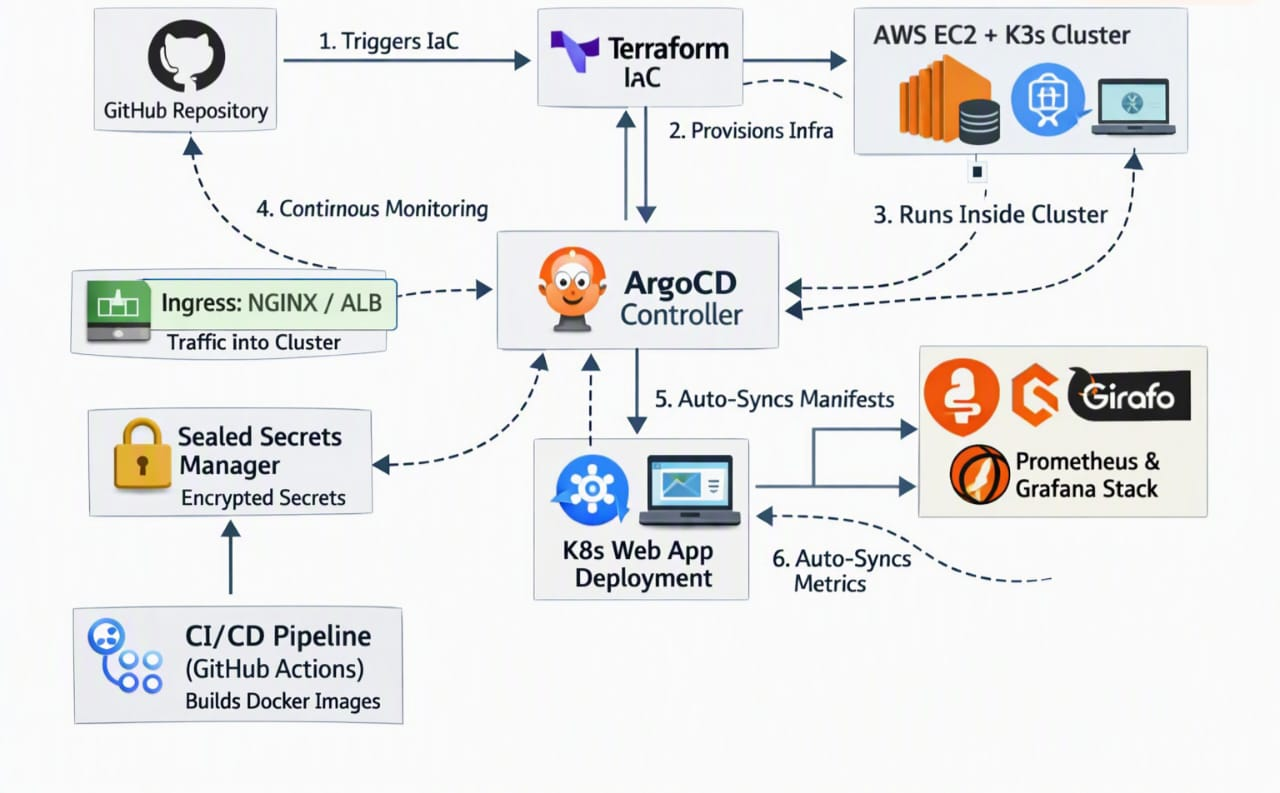
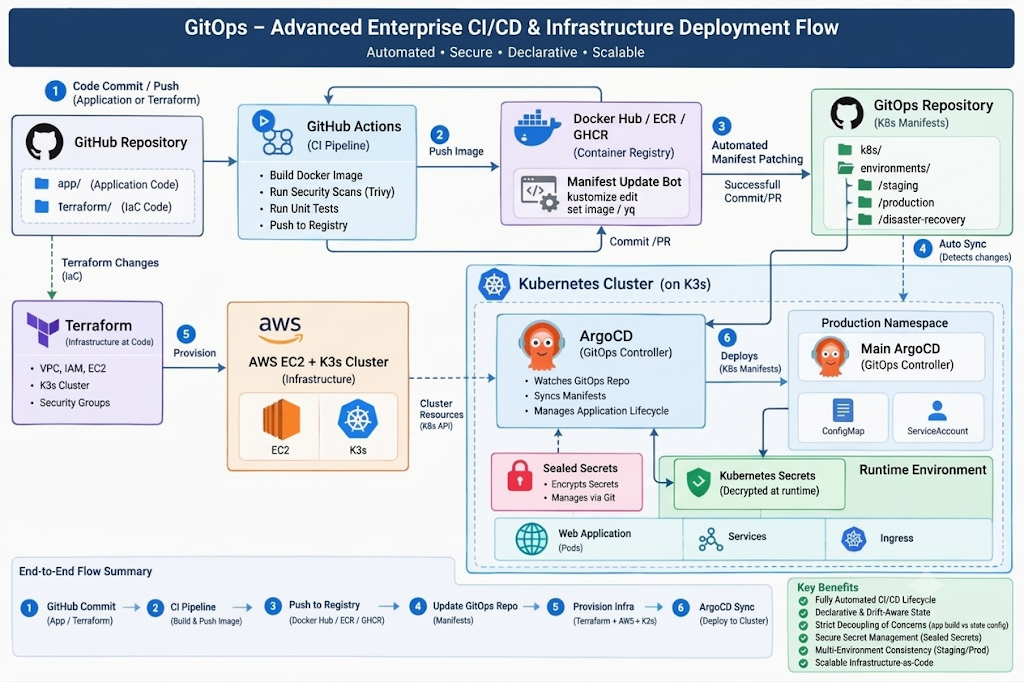
updated readme

diff --git a/README.md b/README.md
@@ -1,20 +1,20 @@
 # End-to-End GitOps & Observability Stack on AWS
 
 ## 📖 Overview
-A fully automated deployment pipeline demonstrating Infrastructure-as-Code (Terraform), GitOps (ArgoCD), Lightweight Kubernetes (K3s), and Observability (Prometheus & Grafana) on AWS.
+A fully automated deployment pipeline demonstrating Infrastructure-as-Code (Terraform), GitOps (ArgoCD), Lightweight Kubernetes (K3s), and automated CI security scanning on AWS
 
 ## 🏗 Architecture
 ![diagram](image.png)
 
 *   **Provisioning:** Terraform provisions an AWS EC2 instance and Security Groups.
 *   **Orchestration:** K3s is automatically bootstrapped via cloud-init/user_data.
-*   **GitOps:** ArgoCD continuously monitors this repo and syncs manifests to the cluster.
-*   **Observability:** Prometheus scrapes metrics, and Grafana provides visual dashboards.
+*   **Continuous Integration (CI):** GitHub Actions (Handles code checkout, Trivy filesystem & image security scans, Docker builds, and automated manifest patching).
+*   **Continuous Deployment (CD):** ArgoCD (Monitors this repository and synchronizes state to the Kubernetes cluster automatically).
+*   **Automation Helper:** Makefile for streamlined local or remote pipeline execution.
 
 ## 📂 Repository Structure
 - `terraform/` - AWS infrastructure definitions.
 - `k8s/` - Kubernetes manifests for the demo application.
-- `monitoring/` - Prometheus & Grafana stack configurations.
 - `argocd/` - ArgoCD Application manifests.
 - `.github/` - For Continuous integration
 - `Makefile/` - For standard automation interface
@@ -30,3 +30,20 @@ A fully automated deployment pipeline demonstrating Infrastructure-as-Code (Terr
 
    git clone https://github.com/Sipkaverma/gitops-terraform-k8s-architecture.git
    cd gitops-terraform-k8s-architecture
+
+2. **Initialize Terraform:**
+
+   make init
+
+3. **Provision AWS Infrastructure:**
+
+   make infra-up
+
+4. **Deploy ArgoCD Root Application:**
+
+   make deploy-apps
+
+💡 Key Engineering Highlights
+* **Decoupled Architecture:** Strict separation between application source code/CI pipeline and infrastructure/CD manifests to eliminate tight coupling.
+
+* **Automated GitOps Loop:** CI pipeline automatically patches Kubernetes deployment image tags upon every successful build, triggering instant synchronization via ArgoCD.
